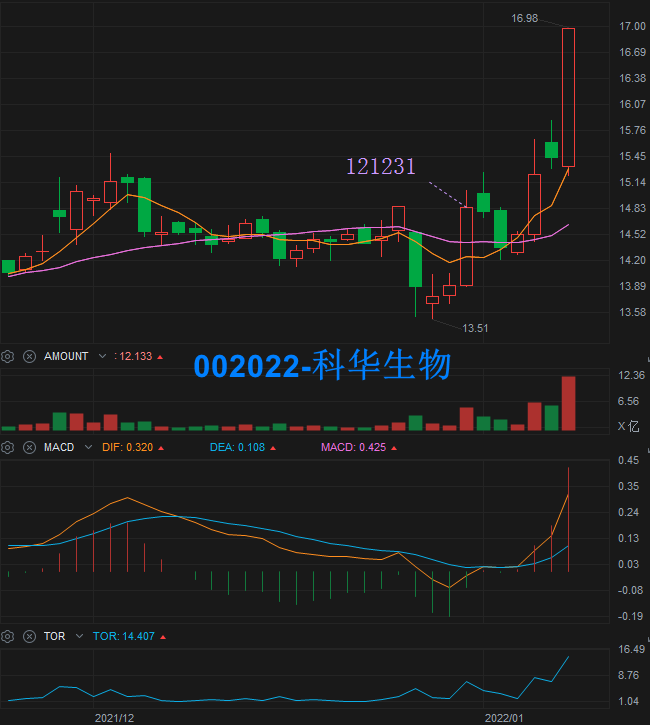
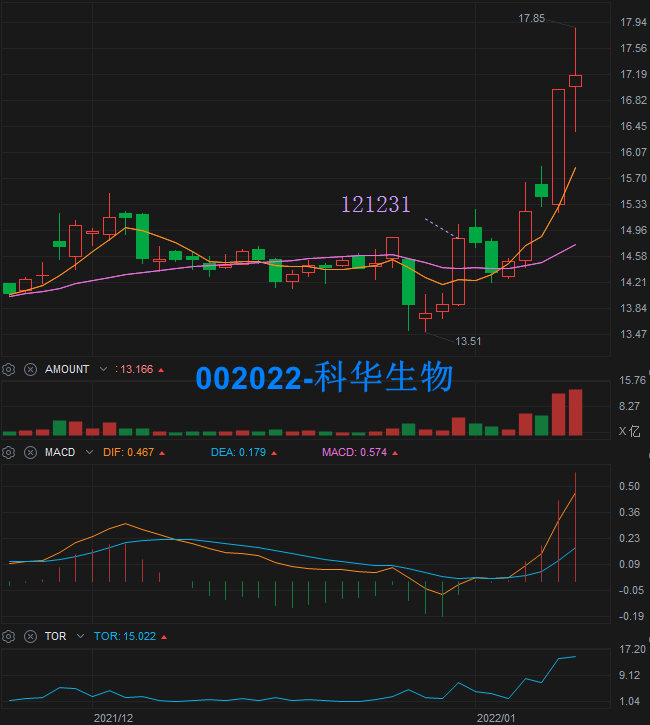
补全科华生物数据

diff --git a/220109-大阳后二连阴出小阳/大阳后二连阴出小阳-案例.md b/220109-大阳后二连阴出小阳/大阳后二连阴出小阳-案例.md
@@ -6,7 +6,7 @@
 
 | 大阳日 |      案例       |   1D    |   2D    |   3D    |   4D    |
 |:------:|:----------------|--------:|--------:|--------:|--------:|
-| 211231 | 002022-科华生物 |  +4.96% |  +1.38% |  +9.97% |         |
+| 211231 | 002022-科华生物 |  +4.96% |  +1.38% |  +9.97% |  +1.12% |
 | 211228 | 002705-新宝股份 |  +1.62% |  +6.37% |  +0.11% |  +6.85% |
 | 211213 | 002206-海利得   |  +3.38% |  +2.18% |  -4.91% |  -1.35% |
 
